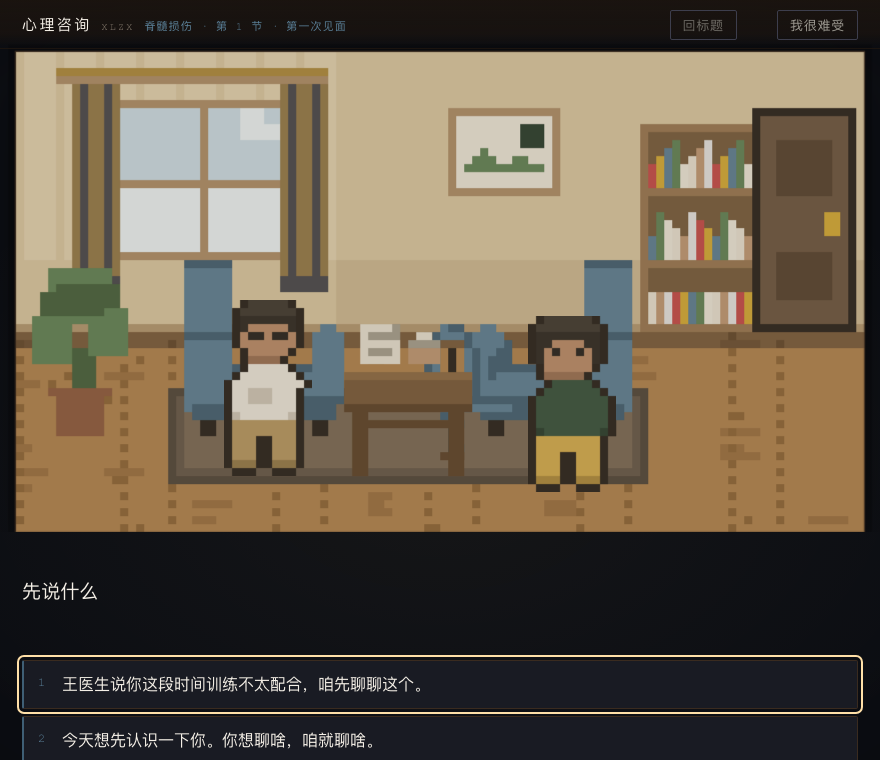
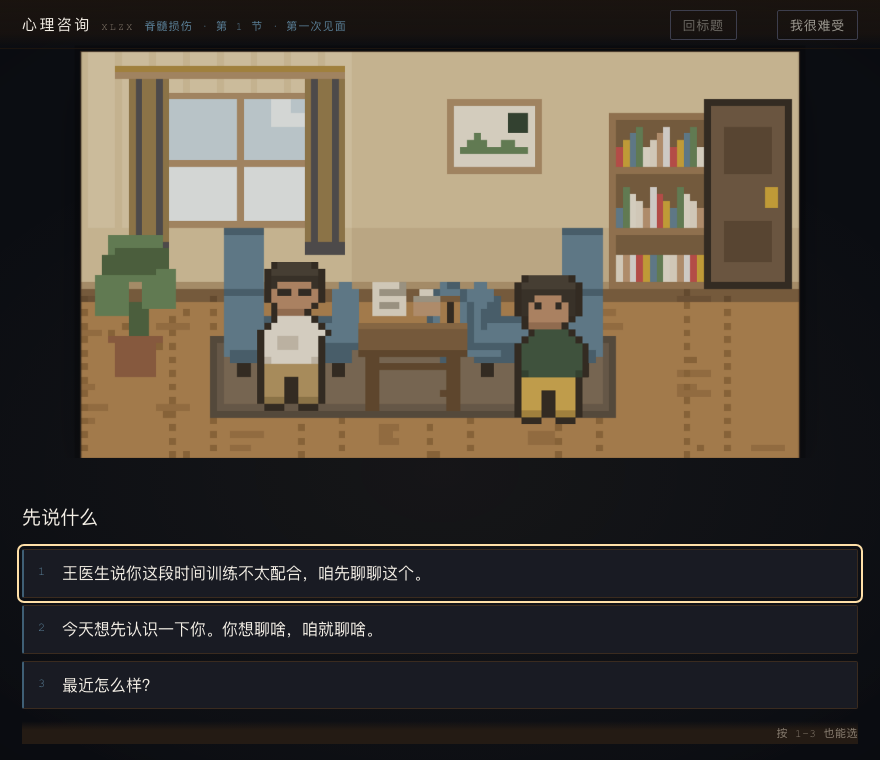
修布局：底部文字不再被裁掉（文字区按内容撑开，房间拿剩余）
上一版把文字区锁死在 30%，短窗口下"台词+选项+提示"约 292px 塞不进
167–227px，底部提示被 #screen 的 overflow:hidden 裁掉——就是"底部文字
看不到"的原因。

改法（不是简单缩放，是让布局随内容自适应）：
1) #panel 按内容定高（flex: 0 0 auto，下限 30vh），台词/选项/提示
   永远完整可见，绝不裁掉。
2) #stage 改为弹性（flex: 1 1 auto），拿文字区之外的剩余空间；
   房间按剩余高度缩放，短窗口下房间缩一缩、而不是裁文字。
3) #text 保持自然高度（不再被 flex 压到 0——那会整段台词消失）；
   hint 加 sticky 贴底，滚动时也一直可见。

实测（880 宽）：
  对话节点：房间区 70% / 文字区 30%（窗高 614、794 都是）
  选项节点：文字区按选项数量自动撑开（38%–51%），hint 始终完整可见，
            overflow 恒为 0，底部不再有被裁掉的内容。

比例上，对话节点稳定 70/30；选项节点因为内容多会暂时多占一些，
这是"文字优先"的结果——宁可房间让一点，也不让选项和提示被切。

全套 6 项检查全绿。

diff --git a/src/styles.css b/src/styles.css
@@ -152,11 +152,11 @@ body::before {
 /* 布局比例：像素动画区（#stage）: 文字选项区（#panel）= 7 : 3。
    flex 比例是"内容盒"的占比；padding 属于各自那一份里，所以两块的
    实际高度（含 padding）保持 7:3。 */
+/* 像素动画区：拿"文字区之外"的全部空间。
+   文字区按内容定高（有下限），房间则按剩余空间缩放——这样短窗口下
+   房间会缩一缩，而不是把文字/选项/提示裁掉。长窗口下自然接近 7:3。 */
 #stage {
-  /* 像素动画区严格占屏幕高度的 70%（页头不进这一份）。
-     用 vh 而不是 flex 比例：flex 会把页头也算进去，导致舞台只拿到
-     "页头之外"的七成，实际约 62%。7:3 要的是整个屏幕的占比。 */
-  flex: 0 0 70vh;
+  flex: 1 1 auto;
   min-height: 0;
   display: flex;
   justify-content: center;
@@ -199,8 +199,10 @@ body::before {
    ========================================================================== */
 
 #panel {
-  flex: 1 1 auto;
-  min-height: 0;
+  /* 文字选项区按内容定高，但给一个下限：太低的话房间会占到 8 成以上，
+     文字反而显得孤零零。台词/选项/提示永远完整可见（绝不裁掉）。 */
+  flex: 0 0 auto;
+  min-height: 30vh;
   display: flex;
   flex-direction: column;
   padding: 18px var(--pad) 16px;
@@ -220,8 +222,9 @@ body::before {
 #who[data-role="旁白"]        { color: var(--who-narrator); }
 
 #text {
-  flex: 1 1 auto;
-  min-height: 3.8em;
+  /* 保持自然高度，不参与伸缩压缩：被压到 0 会整段台词消失。
+     空间不够时由 #panel 整体滚动，而不是把正文挤没。 */
+  flex: 0 0 auto;
   font-size: 19px;
   line-height: 1.85;
   letter-spacing: .01em;
@@ -353,14 +356,19 @@ body::before {
 /* ---- 底部提示 ---- */
 #hint {
   flex: 0 0 auto;
+  position: sticky;
+  bottom: 0;
   min-height: 1.5em;
   margin-top: 12px;
+  padding-top: 4px;
   font-size: 12.5px;
   color: var(--ink-faint);
   letter-spacing: .04em;
   display: flex;
   align-items: center;
   gap: 8px;
+  /* 垫一块和面板一致的底色，滚动时别让文字透过来叠在一起 */
+  background: linear-gradient(to bottom, rgba(27,20,15,0), #241b14 40%);
 }
 #hint .dot {
   width: 6px; height: 6px;

diff --git a/心理咨询.html b/心理咨询.html
@@ -161,11 +161,11 @@ body::before {
 /* 布局比例：像素动画区（#stage）: 文字选项区（#panel）= 7 : 3。
    flex 比例是"内容盒"的占比；padding 属于各自那一份里，所以两块的
    实际高度（含 padding）保持 7:3。 */
+/* 像素动画区：拿"文字区之外"的全部空间。
+   文字区按内容定高（有下限），房间则按剩余空间缩放——这样短窗口下
+   房间会缩一缩，而不是把文字/选项/提示裁掉。长窗口下自然接近 7:3。 */
 #stage {
-  /* 像素动画区严格占屏幕高度的 70%（页头不进这一份）。
-     用 vh 而不是 flex 比例：flex 会把页头也算进去，导致舞台只拿到
-     "页头之外"的七成，实际约 62%。7:3 要的是整个屏幕的占比。 */
-  flex: 0 0 70vh;
+  flex: 1 1 auto;
   min-height: 0;
   display: flex;
   justify-content: center;
@@ -208,8 +208,10 @@ body::before {
    ========================================================================== */
 
 #panel {
-  flex: 1 1 auto;
-  min-height: 0;
+  /* 文字选项区按内容定高，但给一个下限：太低的话房间会占到 8 成以上，
+     文字反而显得孤零零。台词/选项/提示永远完整可见（绝不裁掉）。 */
+  flex: 0 0 auto;
+  min-height: 30vh;
   display: flex;
   flex-direction: column;
   padding: 18px var(--pad) 16px;
@@ -229,8 +231,9 @@ body::before {
 #who[data-role="旁白"]        { color: var(--who-narrator); }
 
 #text {
-  flex: 1 1 auto;
-  min-height: 3.8em;
+  /* 保持自然高度，不参与伸缩压缩：被压到 0 会整段台词消失。
+     空间不够时由 #panel 整体滚动，而不是把正文挤没。 */
+  flex: 0 0 auto;
   font-size: 19px;
   line-height: 1.85;
   letter-spacing: .01em;
@@ -362,14 +365,19 @@ body::before {
 /* ---- 底部提示 ---- */
 #hint {
   flex: 0 0 auto;
+  position: sticky;
+  bottom: 0;
   min-height: 1.5em;
   margin-top: 12px;
+  padding-top: 4px;
   font-size: 12.5px;
   color: var(--ink-faint);
   letter-spacing: .04em;
   display: flex;
   align-items: center;
   gap: 8px;
+  /* 垫一块和面板一致的底色，滚动时别让文字透过来叠在一起 */
+  background: linear-gradient(to bottom, rgba(27,20,15,0), #241b14 40%);
 }
 #hint .dot {
   width: 6px; height: 6px;
